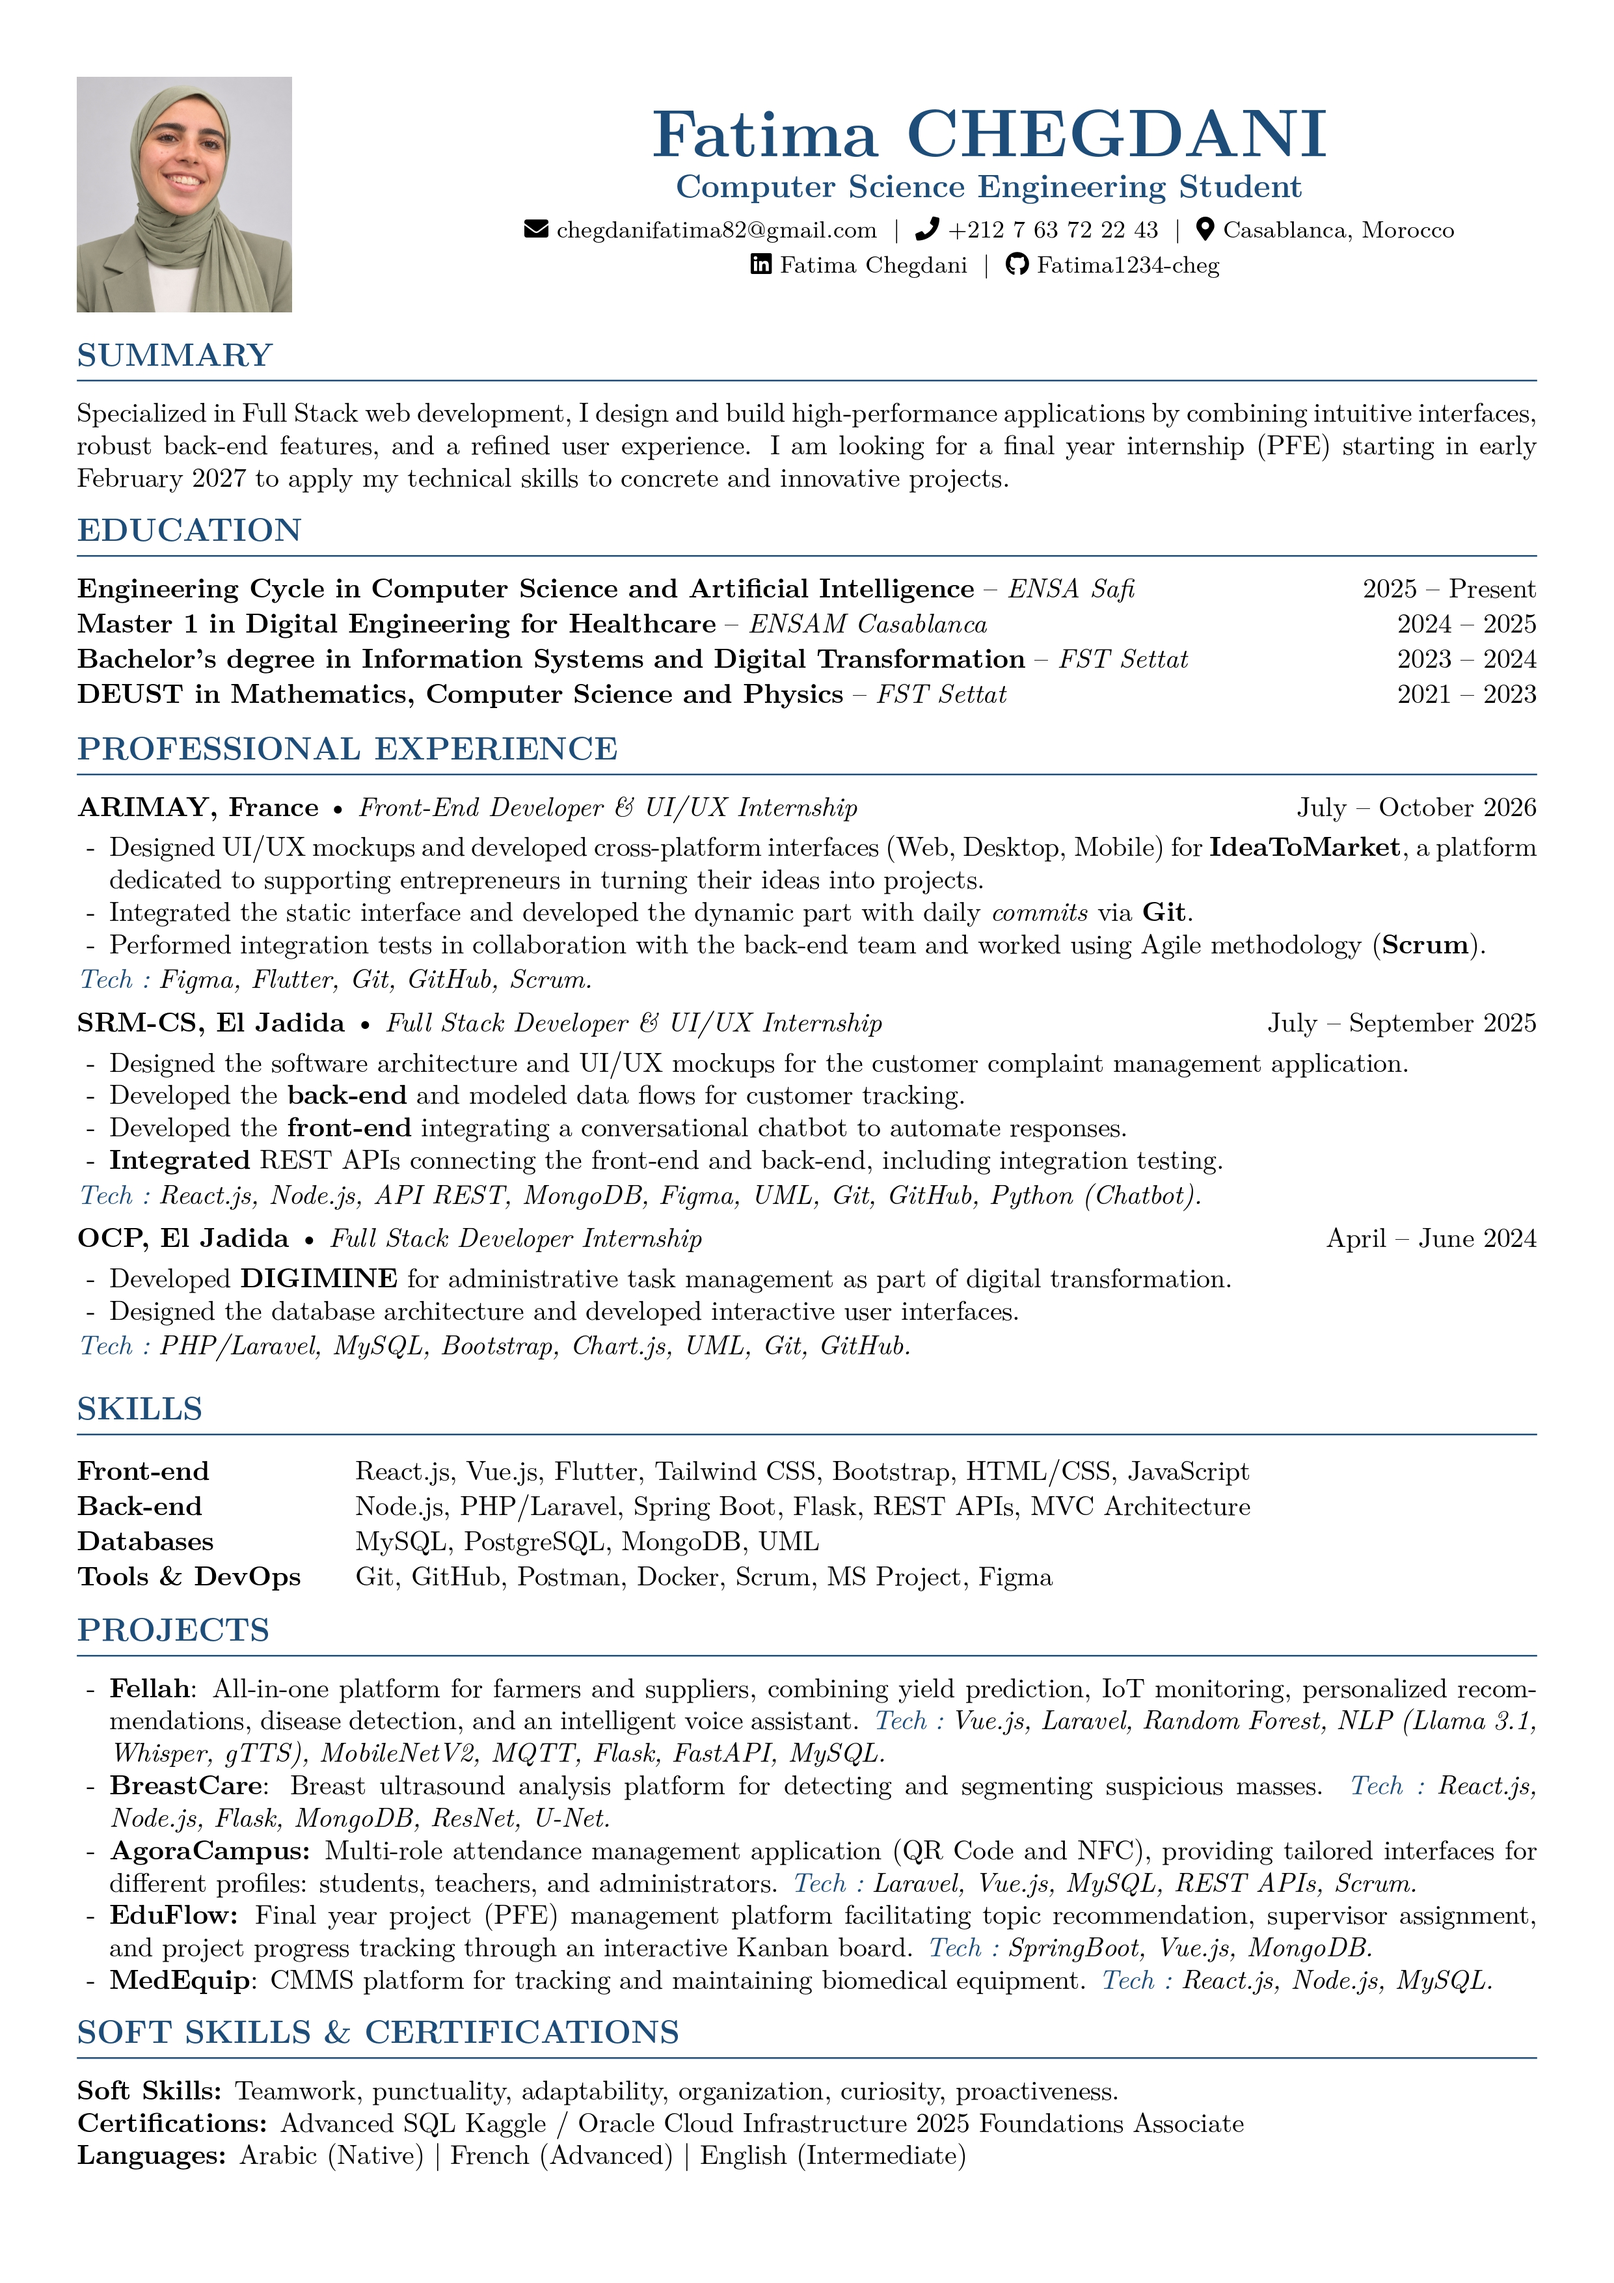
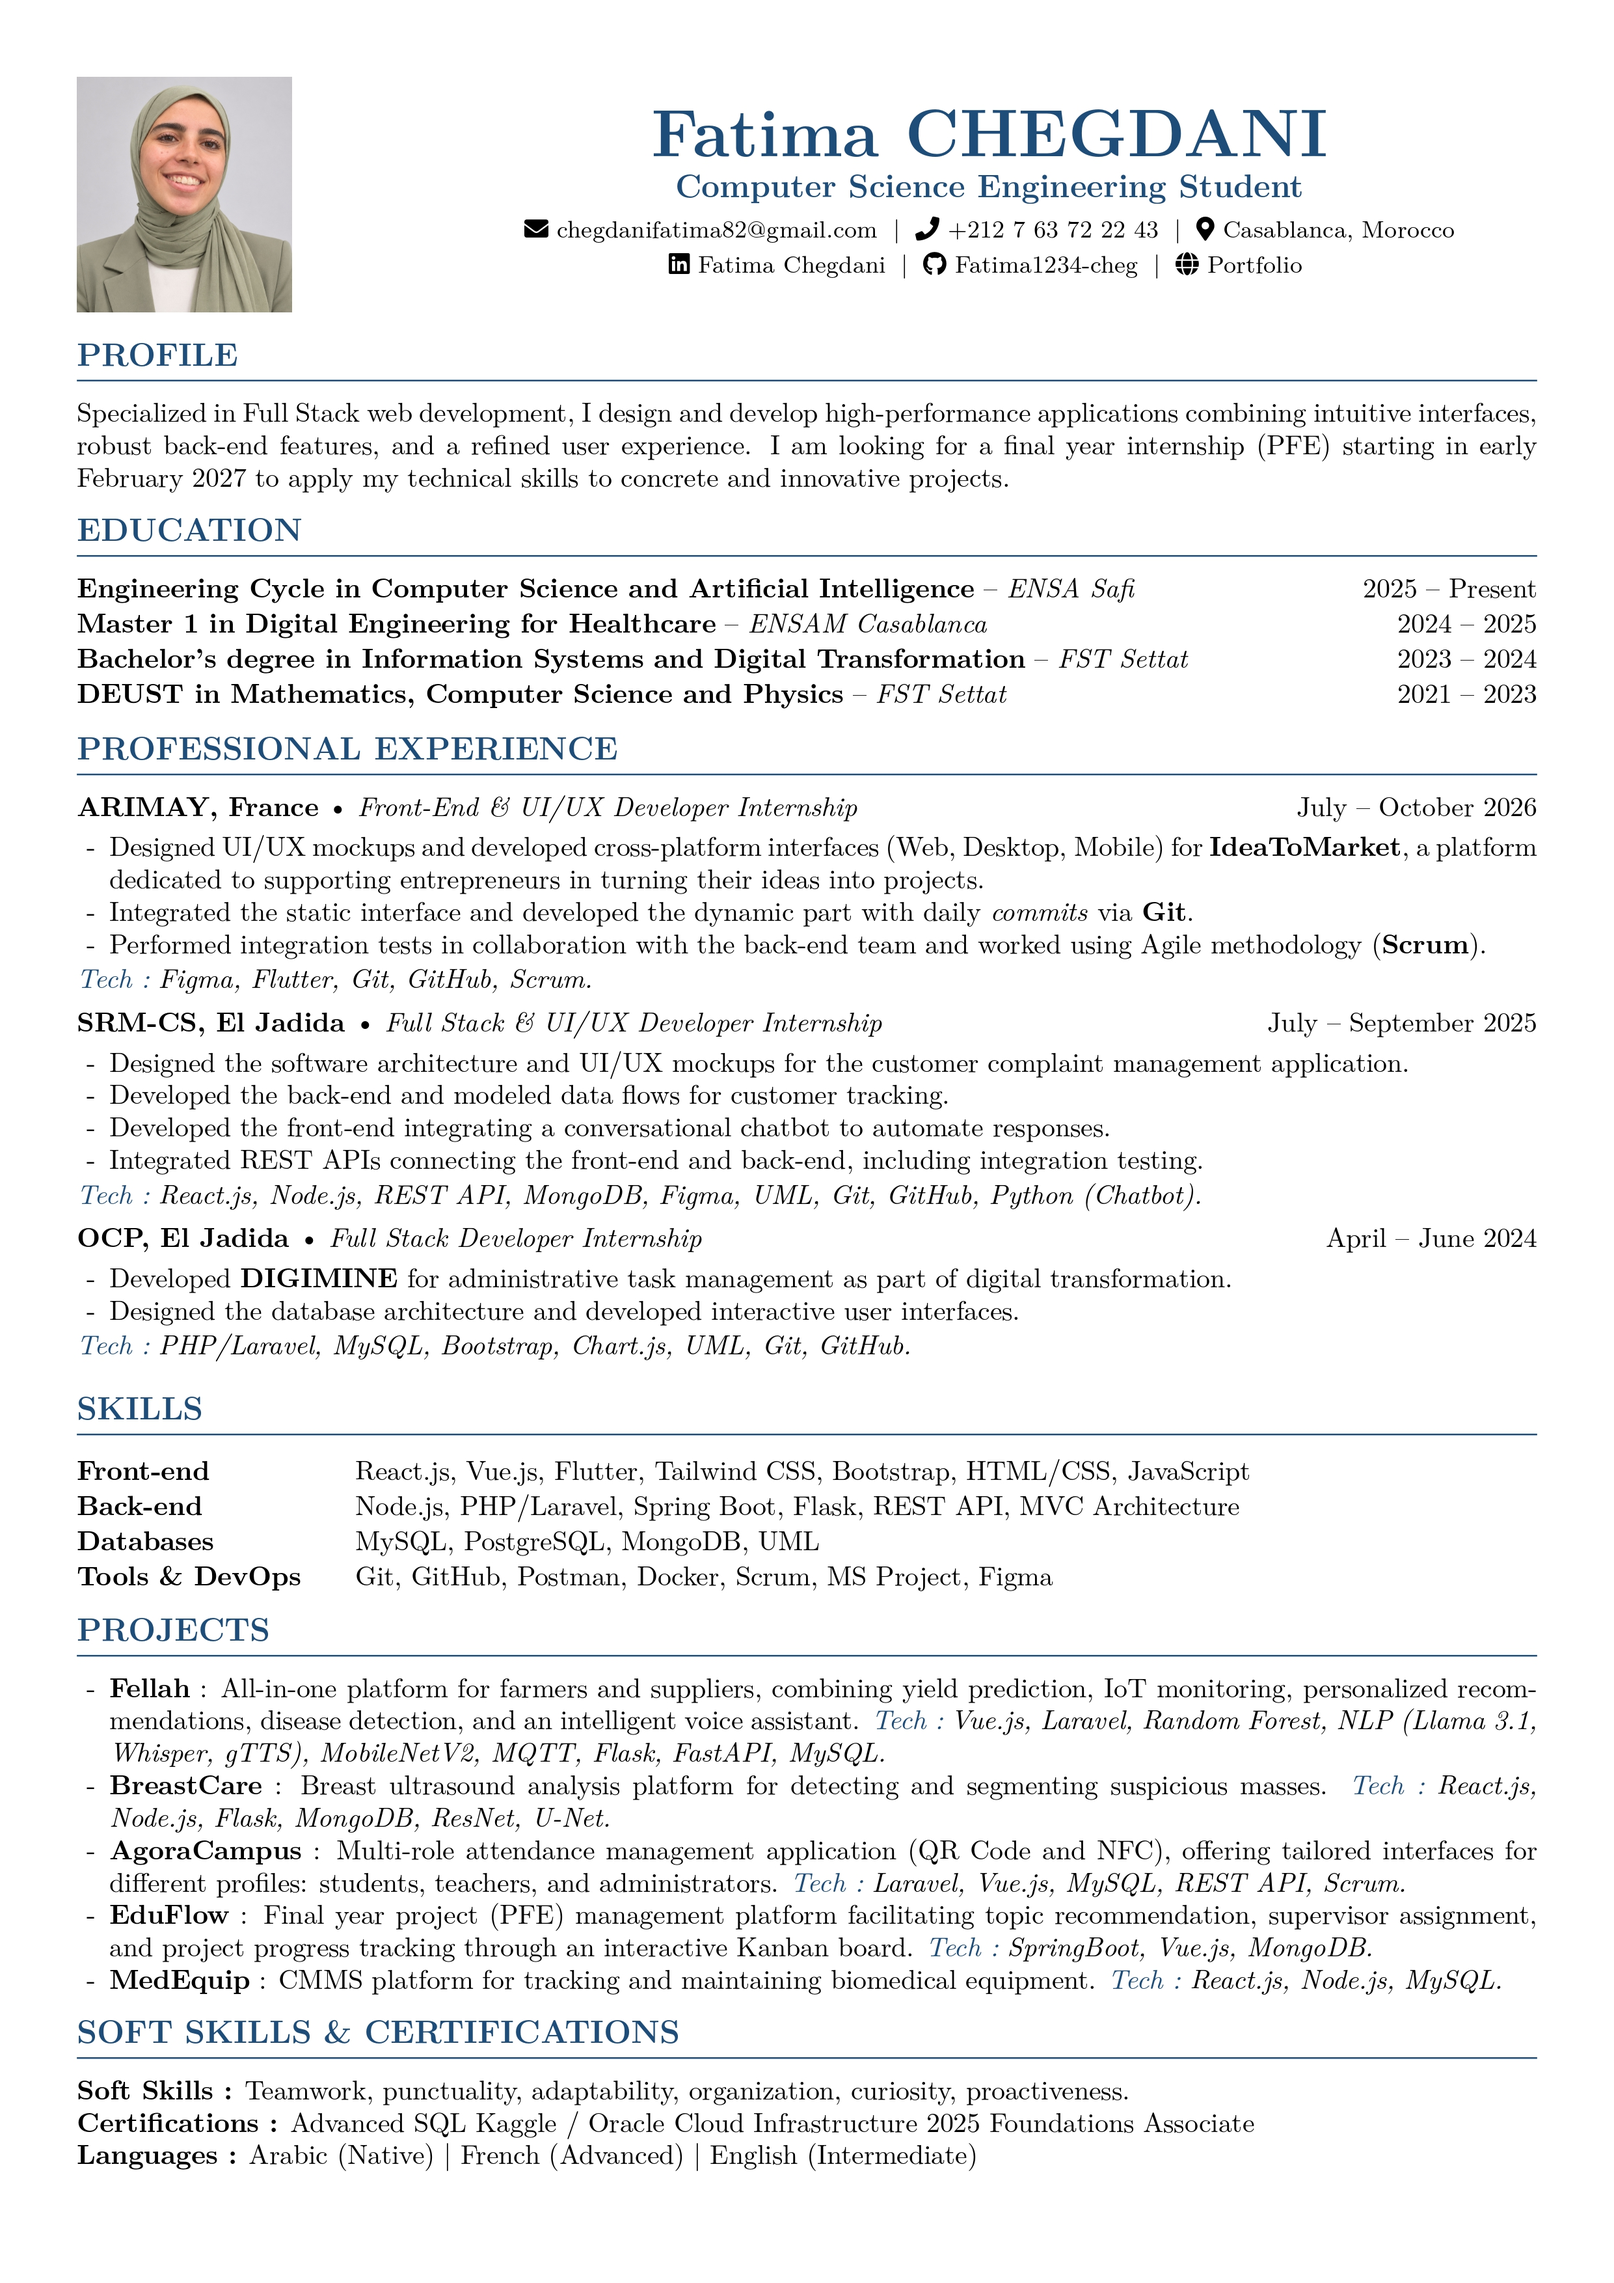
AjoutCvAng

diff --git a/src/components/sections/CertificationsSection.vue b/src/components/sections/CertificationsSection.vue
@@ -30,8 +30,9 @@
 
       <!-- Liste des Certifications -->
       <div class="certifications__grid">
+        <!-- MODIFICATION ICI : on utilise sortedCertifications au lieu de certifications -->
         <div 
-          v-for="(cert, index) in certifications" 
+          v-for="(cert, index) in sortedCertifications" 
           :key="cert.id"
           class="cert-row"
           :class="{ 'cert-row--featured': cert.featured, 'cert-row--clickable': cert.image }"
@@ -173,7 +174,7 @@ const certifications = ref([
     id: 1,
     name: 'Advanced SQL',
     issuer: '365 Data Science',
-    year: '2024',
+    year: '2026',
     featured: true,
     link: 'https://lnkd.in/p/ep88Scw8' 
   },
@@ -199,7 +200,7 @@ const certifications = ref([
     issuer: 'Cisco Networking Academy',
     year: 'Nov 2024',
     featured: false,
-    image: '/images/certifications/python-1.png' // Plus de bouton "Voir", la ligne est cliquable
+    image: '/images/certifications/python-1.png'
   },
   {
     id: 5,
@@ -207,9 +208,34 @@ const certifications = ref([
     issuer: 'Cisco Networking Academy',
     year: 'Dec 2024',
     featured: false,
-    image: '/images/certifications/python-2.png' // Plus de bouton "Voir", la ligne est cliquable
+    image: '/images/certifications/python-2.png'
   }
 ])
+
+// --- AJOUT : TRI AUTOMATIQUE DES CERTIFICATIONS ---
+const sortedCertifications = computed(() => {
+  return [...certifications.value].sort((a, b) => {
+    // Fonction pour extraire l'année et le mois
+    const getDateValue = (dateStr: string) => {
+      const yearMatch = dateStr.match(/\d{4}/)
+      const year = yearMatch ? parseInt(yearMatch[0], 10) : 0
+
+      const months: Record<string, number> = { 
+        Jan: 1, Feb: 2, Mar: 3, Apr: 4, May: 5, Jun: 6, 
+        Jul: 7, Aug: 8, Sep: 9, Oct: 10, Nov: 11, Dec: 12 
+      }
+      const monthMatch = dateStr.match(/[A-Za-z]{3}/)
+      // Si pas de mois (ex: "2026"), on met 12 pour le placer en fin d'année
+      const month = monthMatch ? (months[monthMatch[0]] || 12) : 12 
+
+      // On combine pour comparer (ex: 202612 > 202511)
+      return year * 100 + month
+    }
+
+    // Ordre décroissant (Plus récent en premier)
+    return getDateValue(b.year) - getDateValue(a.year)
+  })
+})
 
 const softSkills = computed(() => {
   const skills: Record<string, string[]> = {
@@ -373,11 +399,10 @@ $border-color: rgba(255, 255, 255, 0.08);
       border-bottom: none;
     }
 
-    /* ⬇ AJOUT : Rendre la ligne cliquable visuellement pour les images (Python) ⬇ */
     &--clickable {
       cursor: pointer;
       &:hover {
-        background: rgba(99, 102, 241, 0.05); /* Petit halo au survol */
+        background: rgba(99, 102, 241, 0.05);
       }
     }
 
